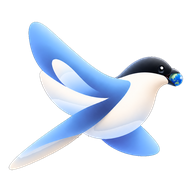
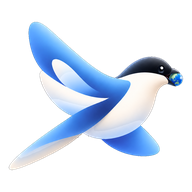
차분함은 두되 칙칙함을 걷어내기
무지개색을 걷어내면서 반대로 너무 죽여 놓았다. 계열은 그대로 두고 생기만
되올렸다.

  · 카드 아이콘 칩이 가장 큰 원인이었다. 바탕에 색을 9%만 섞고 아이콘을
    회색 쪽으로 42% 당겨 두니 색이 아예 안 보였다. 바탕 20%·아이콘 78%로
    올려 칩에서만 또렷하게 드러나게 했다. 카드 열한 장의 색도 같은 계열
    안에서 채도를 조금 되돌렸다.
  · 라이트 모드 바탕이 베이지(#f7f6f3)라 흰 카드와 붙어 탁해 보였다.
    맑은 회백(#f6f7f9)으로 옮기고 테두리도 그에 맞췄다.
  · 다크 모드 먹색에 푸른 기를 조금 넣어 납작함을 덜었다.
  · 강조색을 한 단계 밝은 파랑으로 올렸다(#3a6ea8 → #2f74b8).
  · 로고 파랑 보정을 0.62배에서 0.76배로 되돌렸다. 너무 낮춰 두니 새가
    바래 보였다. 지구본을 보정에서 빼는 처리는 그대로다.

다크·라이트 양쪽을 확인했다. 빌드 스탬프 20260903w.

Claude-Session: https://claude.ai/code/session_0111yRyXzGisqdrG9SKT91iY

Changed region(s): [[0.125, 0.125, 0.6875, 0.75], [0.5312, 0.6562, 0.8125, 0.8125]]

diff --git a/js/app.js b/js/app.js
@@ -182,27 +182,27 @@ function setMode(mob){
 /* ══════════ Geogl3 랜딩 — 캐러셀 모드 선택 ══════════ */
 /* 3×3 그리드: 한국지리(korea)를 정중앙(5번째 항목)에 놓고 세계지리 항목들이 둘러싼다 */
 const LD_SLIDES=[
- {act:'name',  ic:'globe', mc:'#7ba9db', tt:'나라 이름 맞히기', ds:'지도에서 나라를 클릭하고 이름을 맞혀요. 3번 안에 맞히면 색이 칠해져요.', pts:'국가당 1점'},
- {act:'border', ic:'border',mc:'#6f9ecf', tt:'접경국 퀴즈', ds:'국경을 맞댄 이웃 나라로 추리하는 퀴즈. 난이도에 따라 방식이 달라져요.', pts:'1 · 3 · 9 · 40~60점', diff:'bdiff', levels:['L','M','H','X'],
+ {act:'name',  ic:'globe', mc:'#6fa6e0', tt:'나라 이름 맞히기', ds:'지도에서 나라를 클릭하고 이름을 맞혀요. 3번 안에 맞히면 색이 칠해져요.', pts:'국가당 1점'},
+ {act:'border', ic:'border',mc:'#5f9ad6', tt:'접경국 퀴즈', ds:'국경을 맞댄 이웃 나라로 추리하는 퀴즈. 난이도에 따라 방식이 달라져요.', pts:'1 · 3 · 9 · 40~60점', diff:'bdiff', levels:['L','M','H','X'],
   dd:{L:'하 · 지도에서 클릭해 맞히기 (1점)',M:'중 · 지도 없이 이름 입력 (3점)',H:'상 · 접한 나라 모두 쓰기 (비율별 2·5·9점)',X:'하드코어 · 4개국 이상과 접한 나라만. 개수도 안 알려 주고 건너뛰기도 없어요. 완벽해야 40점(아프리카 60점), 하나라도 어긋나면 놓친 곳 −2 · 잘못 적은 곳 −5만 남아요'}},
- {act:'religion',ic:'book', mc:'#d8c0a8', tt:'종교 구성', ds:'원그래프를 보고 나라별 종교 구성을 맞혀요.', pts:'1 · 2 · 3점', diff:'rdiff',
+ {act:'religion',ic:'book', mc:'#e0bd94', tt:'종교 구성', ds:'원그래프를 보고 나라별 종교 구성을 맞혀요.', pts:'1 · 2 · 3점', diff:'rdiff',
   dd:{L:'하 · 상위 종교 70%+ 국가만 (1점)',M:'중 · 모든 국가 · 힌트 있음 (2점)',H:'상 · 3번 틀려야 공개 (3점)'}},
- {act:'river', ic:'wave',  mc:'#8bb6e2', tt:'하천 맞히기', ds:'세계 주요 하천 60개를 경로·통과국으로 맞혀요.', pts:'3~10점', diff:'vdiff',
+ {act:'river', ic:'wave',  mc:'#79b4e8', tt:'하천 맞히기', ds:'세계 주요 하천 60개를 경로·통과국으로 맞혀요.', pts:'3~10점', diff:'vdiff',
   dd:{L:'하 · 물줄기 모양 보고 이름 맞히기 (3점)',M:'중 · 지나는 나라 모두 클릭 (5점 만점)',H:'상 · 세계지도에 경로 그리기 (일치도×10점)'}},
- {act:'korea', ic:'pin',   mc:'#c9b39a', tt:'한국지리', ds:'대한민국 행정구역 위치를 지도에서 맞혀요.', pts:'1점', diff:'kdiff', levels:['L','M'],
+ {act:'korea', ic:'pin',   mc:'#d9b489', tt:'한국지리', ds:'대한민국 행정구역 위치를 지도에서 맞혀요.', pts:'1점', diff:'kdiff', levels:['L','M'],
   dd:{L:'하 · 도·특별시·광역시 단위 (시·도 17개)',M:'중 · 전국 시·군 단위 전체'}},
- {act:'climate', ic:'climate', mc:'#9db8d4', tt:'기후 맞히기', ds:'기후 그래프 10개와 지도 위 지점 10개를 연결해요. 온대·냉한대·열대·전기후 라운드로 구성돼요.', pts:'2~8점', diff:'cldiff', levels:['L','M','H'],
+ {act:'climate', ic:'climate', mc:'#87bcdf', tt:'기후 맞히기', ds:'기후 그래프 10개와 지도 위 지점 10개를 연결해요. 온대·냉한대·열대·전기후 라운드로 구성돼요.', pts:'2~8점', diff:'cldiff', levels:['L','M','H'],
   dd:{L:'하 · 지도 위 지점의 쾨펜 기후 기호 맞히기 (2점)',M:'중 · 17년간 평가원 출제 지역 (4점)',H:'상 · 전 세계 1000+ 지점 (8점)'}},
- {act:'trade',  ic:'trade', mc:'#a3b2c4', tt:'무역 구조', ds:'수출·수입 품목 트리맵을 보고 어느 나라인지 맞혀요.', pts:'2~9점', diff:'tdiff', tkind:true},
- {act:'tenergy',ic:'power', mc:'#d0b492', tt:'에너지 구성', ds:'발전·에너지 믹스를 보고 나라를 맞혀요. 유형 필터도 고를 수 있어요.', pts:'2 · 4 · 6점', diff:'ediff',
+ {act:'trade',  ic:'trade', mc:'#8aa6cf', tt:'무역 구조', ds:'수출·수입 품목 트리맵을 보고 어느 나라인지 맞혀요.', pts:'2~9점', diff:'tdiff', tkind:true},
+ {act:'tenergy',ic:'power', mc:'#dcb184', tt:'에너지 구성', ds:'발전·에너지 믹스를 보고 나라를 맞혀요. 유형 필터도 고를 수 있어요.', pts:'2 · 4 · 6점', diff:'ediff',
   dd:{L:'하 · 특징 뚜렷한 국가만 (2점)',M:'중 · 모든 국가 · 힌트 있음 (4점)',H:'상 · 힌트 없음 (6점)'}, esub:true},
- {act:'worlddict', ic:'dict', mc:'#c2b6a4', tt:'세지 위키', ds:'국가별 수도·인구·GDP·기후·수출·에너지·종교·접경국 정보를 한눈에 봐요. 설명은 누구나 수정을 제안할 수 있어요.', pts:'모두가 만드는 사전', dict:true},
- {act:'stat', ic:'trade', mc:'#8fa8c4', tt:'통계 순위 테스트', wide:true,
+ {act:'worlddict', ic:'dict', mc:'#d3bb92', tt:'세지 위키', ds:'국가별 수도·인구·GDP·기후·수출·에너지·종교·접경국 정보를 한눈에 봐요. 설명은 누구나 수정을 제안할 수 있어요.', pts:'모두가 만드는 사전', dict:true},
+ {act:'stat', ic:'trade', mc:'#78b2ce', tt:'통계 순위 테스트', wide:true,
   tt2:'지도에서 1위부터 5위까지 순서대로',
   ds:'종교 신자 수 · 쌀·밀·옥수수의 생산/수출/소비/수입 · 소·양·돼지 사육두수 · 석유·석탄·천연가스의 생산/수출/수입. 28개 통계를 순위대로 클릭해요.',
   pts:'순위당 2점 (통계당 10점)', stcat:true},
  /* 3×3 배치를 흐트러뜨리지 않도록 맨 아래 가로 한 칸으로 붙인다 */
- {act:'suteuk', ic:'book', mc:'#bda8a4', tt:'9모대비 수특퀴즈', wide:true,
+ {act:'suteuk', ic:'book', mc:'#cc9fa8', tt:'9모대비 수특퀴즈', wide:true,
   ds:'수특지엽 1~4강과 「이것이 수특 정리다」 특강 자료 01~25에 나온 내용만 물어봐요. 지도에 찍힌 지점의 기후 그래프 고르기, 순서 직접 입력, 지도 클릭 등 외운 대로 써야 풀리는 형태예요. 아래에서 주제·형식을 골라 그 부분만 집중해서 풀 수 있어요. 암기법은 힌트 버튼을 눌러야 보이고, 보면 그 문항 배점이 절반이 돼요. 틀린 문항은 오답노트 PDF로 저장할 수 있어요.',
   pts:'문항당 3점'}
 ];

diff --git a/css/main.css b/css/main.css
@@ -1,4 +1,4 @@
-:root{color-scheme:dark;--bg:#14161a;--sf:#1c1f24;--sf2:#23272e;--bd:#31363f;--tx:#e9eaec;--tx2:#9298a3;--ac:#7ba9db;--ac2:rgba(123,169,219,.13);--btn:#3a6ea8;--wr:#e08b83;--gd:#d9b268;--land:#313e52;--map-line:#161e2b;--map-hover:#46587a;--map-mask-fill:#1c2330;--map-mask-line:#141a24;--map-active-fill:#38455a;--map-ant:#232a36;--c1:#4285f4;--c2:#34a853;--c3:#fbbc04;--g-blue:#4285f4;--g-red:#ea4335;--g-yellow:#fbbc05;--g-green:#34a853;--shadow:0 1px 2px rgba(0,0,0,.28),0 4px 14px rgba(0,0,0,.22);--shadow2:0 6px 20px rgba(0,0,0,.3),0 18px 50px rgba(0,0,0,.26);  /* ── 물까치(Cyanopica cyanus) 팔레트 ──
+:root{color-scheme:dark;--bg:#14171c;--sf:#1c2027;--sf2:#242932;--bd:#333944;--tx:#e9eaec;--tx2:#9298a3;--ac:#7fb2e6;--ac2:rgba(127,178,230,.14);--btn:#2f74b8;--wr:#e08b83;--gd:#d9b268;--land:#313e52;--map-line:#161e2b;--map-hover:#46587a;--map-mask-fill:#1c2330;--map-mask-line:#141a24;--map-active-fill:#38455a;--map-ant:#232a36;--c1:#4285f4;--c2:#34a853;--c3:#fbbc04;--g-blue:#4285f4;--g-red:#ea4335;--g-yellow:#fbbc05;--g-green:#34a853;--shadow:0 1px 2px rgba(0,0,0,.28),0 4px 14px rgba(0,0,0,.22);--shadow2:0 6px 20px rgba(0,0,0,.3),0 18px 50px rgba(0,0,0,.26);  /* ── 물까치(Cyanopica cyanus) 팔레트 ──
      사진의 새에서 그대로 가져온 네 가지 색이다. 로고와 강조 요소가
      이 안에서만 움직이도록 묶어 두었다.
        cap  검은 두건 · wing 하늘색 날개와 꼬리 · body 은회색 가슴
@@ -22,7 +22,7 @@
    필터로 제외된 나라를 어둡게 가리는 표시)·--map-hover·--map-active-fill도
    전부 다크 전용 하드코딩이라 라이트모드에서 지도 위에 시커먼 덩어리가 떠
    있는 것처럼 보였던 문제를 같이 고친다. */
-:root[data-theme="light"]{color-scheme:light;--bg:#f7f6f3;--sf:#ffffff;--sf2:#f1efeb;--bd:#e2ded7;--tx:#1d1f22;--tx2:#6b6f76;--ac:#3a6ea8;--ac2:rgba(58,110,168,.07);--btn:#3a6ea8;--wr:#b3453c;--gd:#9a7b3c;--land:#c9ced7;--map-line:#98a1ad;--map-hover:#aab4c2;--map-mask-fill:#e7e9ec;--map-mask-line:#cfd3d8;--map-active-fill:#b7c0cc;--map-ant:#dde1e6;--shadow:0 1px 2px rgba(28,25,20,.05),0 4px 14px rgba(28,25,20,.05);--shadow2:0 6px 20px rgba(28,25,20,.07),0 18px 50px rgba(28,25,20,.06);}
+:root[data-theme="light"]{color-scheme:light;--bg:#f6f7f9;--sf:#ffffff;--sf2:#eef1f5;--bd:#e0e5ec;--tx:#191c21;--tx2:#646a74;--ac:#2f74b8;--ac2:rgba(47,116,184,.08);--btn:#2f74b8;--wr:#b3453c;--gd:#9a7b3c;--land:#c9ced7;--map-line:#98a1ad;--map-hover:#aab4c2;--map-mask-fill:#e7e9ec;--map-mask-line:#cfd3d8;--map-active-fill:#b7c0cc;--map-ant:#dde1e6;--shadow:0 1px 2px rgba(28,25,20,.05),0 4px 14px rgba(28,25,20,.05);--shadow2:0 6px 20px rgba(28,25,20,.07),0 18px 50px rgba(28,25,20,.06);}
 /* 홈 화면 배경 방사형 그라데이션(#landing-overlay)과 로고 파스텔 그라데이션 글자
    (.g3-logo)는 어두운 배경을 전제로 만든 효과라, 라이트모드에서 그대로 두면
    흰 화면 한가운데 어두운 얼룩이 뜨고 그 위에 밝은 파스텔 글자가 겹쳐 대비가
@@ -290,7 +290,7 @@ body.mob-mode #kr-ov{align-items:flex-start;padding-top:.8rem;padding-bottom:0}
 .wi-country{font-weight:600}
 .wi-ans{color:#81c995;margin-left:6px}
 .wi-yours{color:var(--wr);margin-left:6px}
-#landing-overlay{position:fixed;inset:0;background:radial-gradient(1100px 620px at 50% -12%,#1b1f25 0%,var(--bg) 62%);z-index:9000;display:flex;flex-direction:column;align-items:center;justify-content:center;gap:1.2rem;overflow-y:auto;padding:1.2rem 0}
+#landing-overlay{position:fixed;inset:0;background:radial-gradient(1100px 620px at 50% -12%,#1d222a 0%,var(--bg) 62%);z-index:9000;display:flex;flex-direction:column;align-items:center;justify-content:center;gap:1.2rem;overflow-y:auto;padding:1.2rem 0}
 .land-choices{display:flex;gap:.8rem;flex-wrap:wrap;justify-content:center}
 .land-btn{padding:1.1rem 1.8rem;border-radius:4px;border:1px solid var(--bd);background:var(--sf);color:var(--tx);font-family:var(--font-sans);font-size:.92rem;font-weight:600;cursor:pointer;transition:.2s;min-width:140px;text-align:center}
 .land-btn:hover{border-color:var(--tx);color:var(--tx);background:var(--sf2)}
@@ -365,12 +365,15 @@ body.mob-mode #kr-ov{align-items:flex-start;padding-top:.8rem;padding-bottom:0}
 .ld-cell.wide .ld-cell-tt{font-size:.82rem}
 .ld-cell.wide .ld-cell-txt{display:flex;flex-direction:column;gap:.12rem}
 .ld-cell.wide .ld-cell-pt{margin-left:auto;flex:0 0 auto;padding-left:.5rem}
-/* 카드마다 색을 달리하면 무지개처럼 보여 어수선하다. 칩은 한 톤으로 두고
-   구분은 아이콘 모양에 맡긴다. --mc는 아주 옅은 기운으로만 남긴다. */
+/* 카드색은 물까치 계열(하늘·크림·연분홍) 안에서만 움직여 무지개처럼 보이지
+   않게 하되, 색이 아예 안 보일 만큼 죽이면 칙칙해진다. 칩에서만 또렷하게
+   드러내고 나머지 자리는 조용히 둔다. */
 .ld-cell-ic{width:38px;height:38px;border-radius:10px;display:flex;align-items:center;justify-content:center;
-  background:color-mix(in srgb,var(--mc) 9%,var(--sf2));color:color-mix(in srgb,var(--mc) 42%,var(--tx2));
-  transition:color .2s var(--ease),background .2s var(--ease)}
-.ld-cell:hover .ld-cell-ic,.ld-cell.sel .ld-cell-ic{color:color-mix(in srgb,var(--mc) 72%,var(--tx));background:color-mix(in srgb,var(--mc) 16%,var(--sf2))}
+  background:color-mix(in srgb,var(--mc) 20%,var(--sf));color:color-mix(in srgb,var(--mc) 78%,var(--tx));
+  transition:color .2s var(--ease),background .2s var(--ease),transform .2s var(--ease)}
+.ld-cell:hover .ld-cell-ic,.ld-cell.sel .ld-cell-ic{
+  background:color-mix(in srgb,var(--mc) 34%,var(--sf));color:color-mix(in srgb,var(--mc) 92%,var(--tx));
+  transform:translateY(-1px)}
 .ld-cell-ic svg{width:20px;height:20px}
 .ld-cell-tt{font-size:.82rem;font-weight:600;color:var(--tx);line-height:1.3;word-break:keep-all;letter-spacing:-.01em}
 .ld-cell-pt{font-size:.62rem;color:var(--tx2);letter-spacing:-.005em}

diff --git a/index.html b/index.html
@@ -13,10 +13,10 @@
 <link rel="stylesheet" crossorigin href="https://cdn.jsdelivr.net/gh/orioncactus/pretendard@v1.3.9/dist/web/static/pretendard.min.css">
 <link href="https://fonts.googleapis.com/css2?family=Space+Grotesk:wght@400;500;600;700&display=swap" rel="stylesheet">
 </noscript>
-<link rel="icon" href="img/magpie-64.png?v=20260903u">
-<link rel="apple-touch-icon" href="img/magpie-192.png?v=20260903u">
+<link rel="icon" href="img/magpie-64.png?v=20260903w">
+<link rel="apple-touch-icon" href="img/magpie-192.png?v=20260903w">
 <script>(function(){try{var m=localStorage.getItem('seji_theme')||(matchMedia('(prefers-color-scheme: light)').matches?'light':'dark');document.documentElement.dataset.theme=m;}catch(e){}})();</script>
-<link rel="stylesheet" href="css/main.css?v=20260903u">
+<link rel="stylesheet" href="css/main.css?v=20260903w">
 </head>
 <body>
 <button id="theme-toggle" type="button" title="화면 밝기 전환" onclick="toggleTheme()"></button>
@@ -28,7 +28,7 @@
       <path d="M-10 150 C 90 150 130 40 260 40 C 390 40 430 150 530 150"/>
     </svg>
     <div class="g3-lockup" aria-label="Geogl3">
-      <img class="g3-bird" src="img/magpie-512.png?v=20260903u" alt="" width="512" height="512" decoding="async"/>
+      <img class="g3-bird" src="img/magpie-512.png?v=20260903w" alt="" width="512" height="512" decoding="async"/>
       <div class="g3-logo">Geogl3</div>
     </div>
     <p class="ld-tag">See the world from above</p>
@@ -4944,25 +4944,25 @@
     <button class="reb secondary" onclick="runPendingReset();document.getElementById('rbq-end').classList.remove('on')">다시 시작</button>
   </div>
 </div>
-<script src="js/data.js?v=20260903u"></script>
-<script src="js/rivers-data.js?v=20260903u"></script>
-<script src="js/climate-data.js?v=20260903u"></script>
-<script src="js/religion-pop-data.js?v=20260903u"></script>
-<script src="js/climate-map-data.js?v=20260903u"></script>
-<script src="js/app.js?v=20260903u"></script>
-<script src="js/climate.js?v=20260903u"></script>
-<script src="js/dict-data.js?v=20260903u"></script>
-<script src="js/flag-colors-data.js?v=20260903u"></script>
-<script src="js/flag-bg-data.js?v=20260903u"></script>
-<script src="js/dict.js?v=20260903u"></script>
-<script src="js/suteuk-data.js?v=20260903u"></script>
-<script src="js/suteuk.js?v=20260903u"></script>
-<script src="js/stat-data.js?v=20260903u"></script>
-<script src="js/stat.js?v=20260903u"></script>
+<script src="js/data.js?v=20260903w"></script>
+<script src="js/rivers-data.js?v=20260903w"></script>
+<script src="js/climate-data.js?v=20260903w"></script>
+<script src="js/religion-pop-data.js?v=20260903w"></script>
+<script src="js/climate-map-data.js?v=20260903w"></script>
+<script src="js/app.js?v=20260903w"></script>
+<script src="js/climate.js?v=20260903w"></script>
+<script src="js/dict-data.js?v=20260903w"></script>
+<script src="js/flag-colors-data.js?v=20260903w"></script>
+<script src="js/flag-bg-data.js?v=20260903w"></script>
+<script src="js/dict.js?v=20260903w"></script>
+<script src="js/suteuk-data.js?v=20260903w"></script>
+<script src="js/suteuk.js?v=20260903w"></script>
+<script src="js/stat-data.js?v=20260903w"></script>
+<script src="js/stat.js?v=20260903w"></script>
 <!-- ════════════════════════════════════════════════════════════
      계정 · 소셜로그인 · 랭킹 (Supabase) — 빌드/명령어 불필요, 이 파일만으로 동작
      ▼▼▼ 여기 두 줄만 본인 Supabase 값으로 바꾸면 끝 ▼▼▼ -->
-<script type="module" src="js/account.js?v=20260903u"></script>
+<script type="module" src="js/account.js?v=20260903w"></script>
 
 </body>
 </html>
